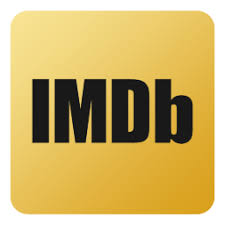
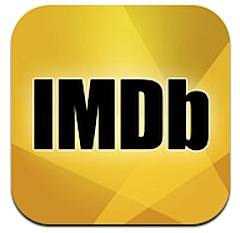
deleted unused images

diff --git a/assets/scripts/main.js b/assets/scripts/main.js
@@ -299,7 +299,7 @@ function displayRatings() {
     //map review section element to js variable
     var ratingSection = $("<div>").attr("id", "rating-section");
     //crate icon image elelments
-    var imdbIcon = $("<img>").addClass("icon").attr("src", "./assets/images/imdb_icon2.jpg");
+    var imdbIcon = $("<img>").addClass("icon").attr("src", "./assets/images/imdb_icon.jpg");
     var metaIcon = $("<img>").addClass("icon").attr("src", "./assets/images/meta_icon.jpg");
     var rottenIcon = $("<img>").addClass("icon").attr("src", "./assets/images/rotten_icon.png");
     //populate available ratings and icons
